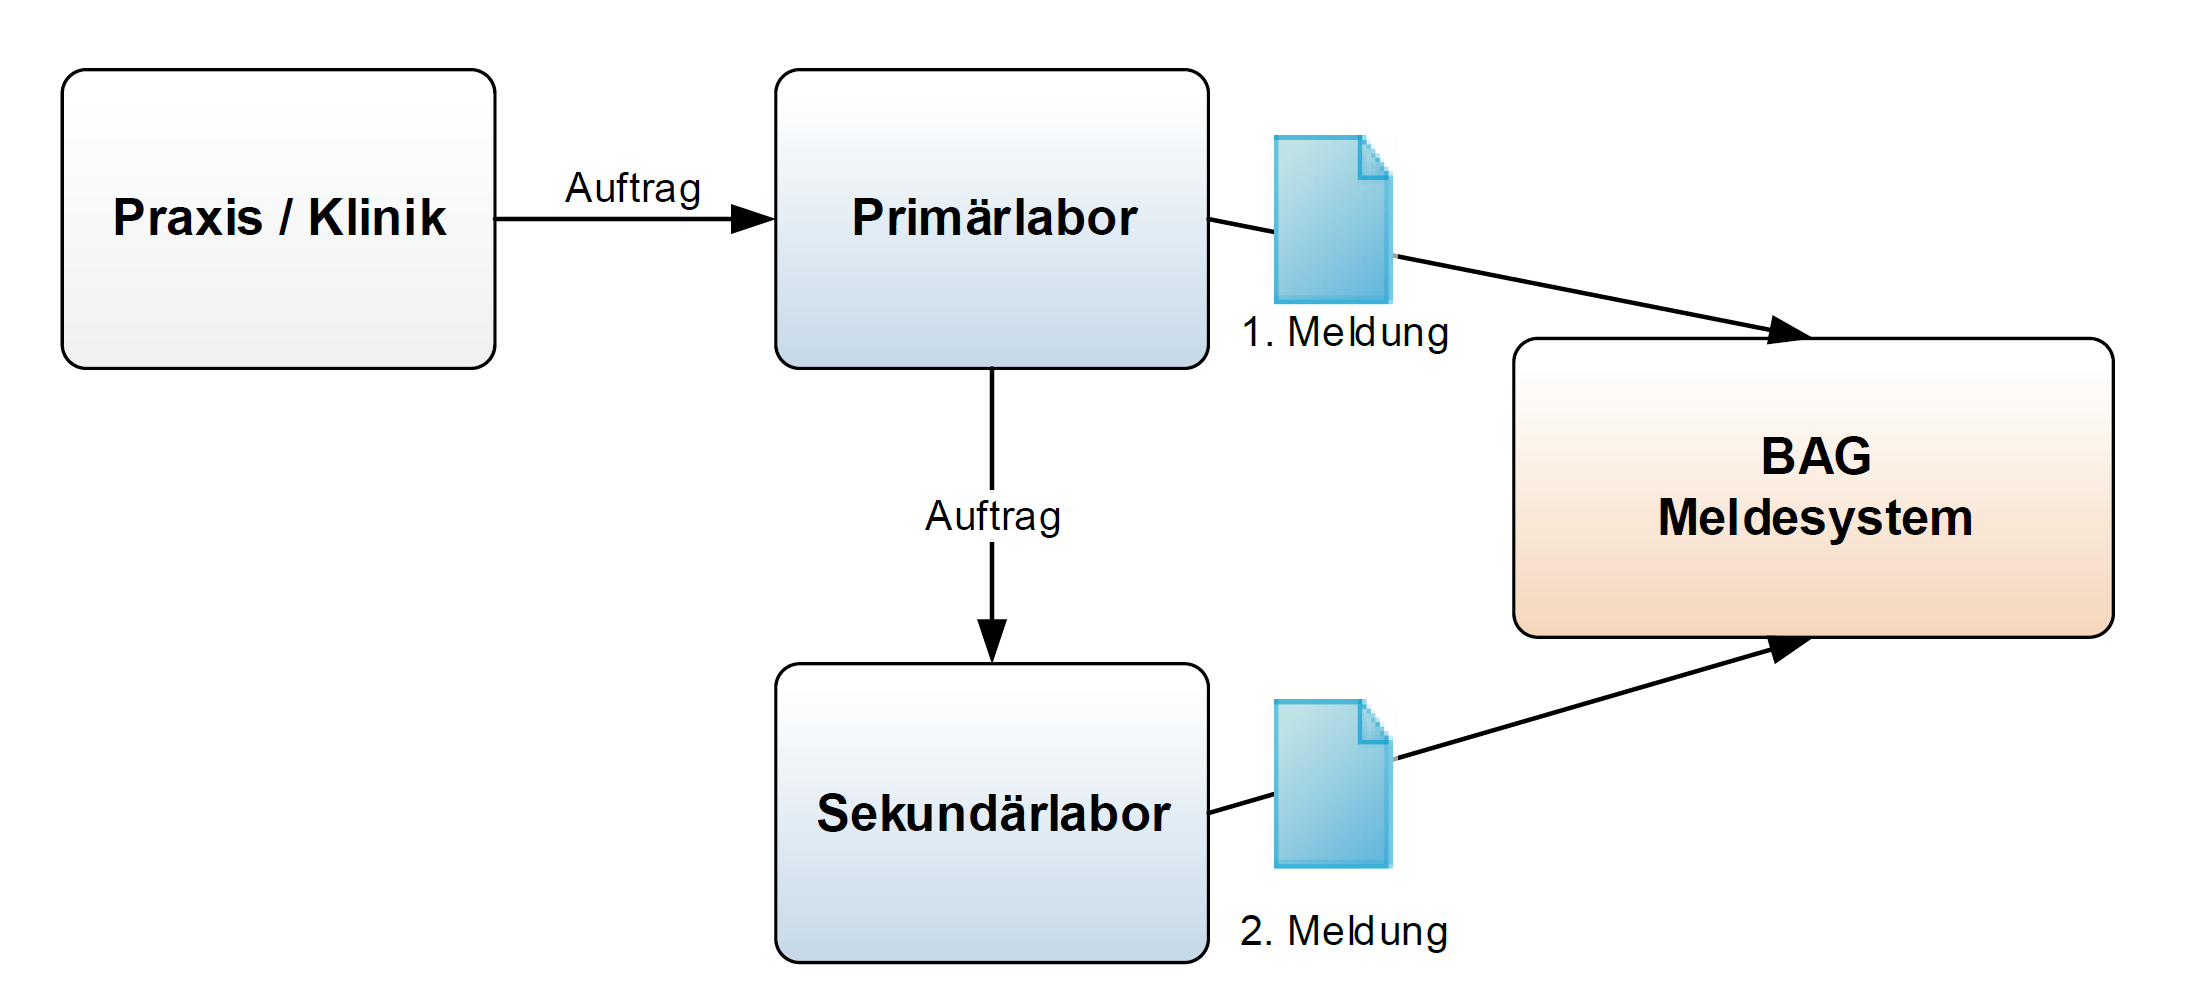
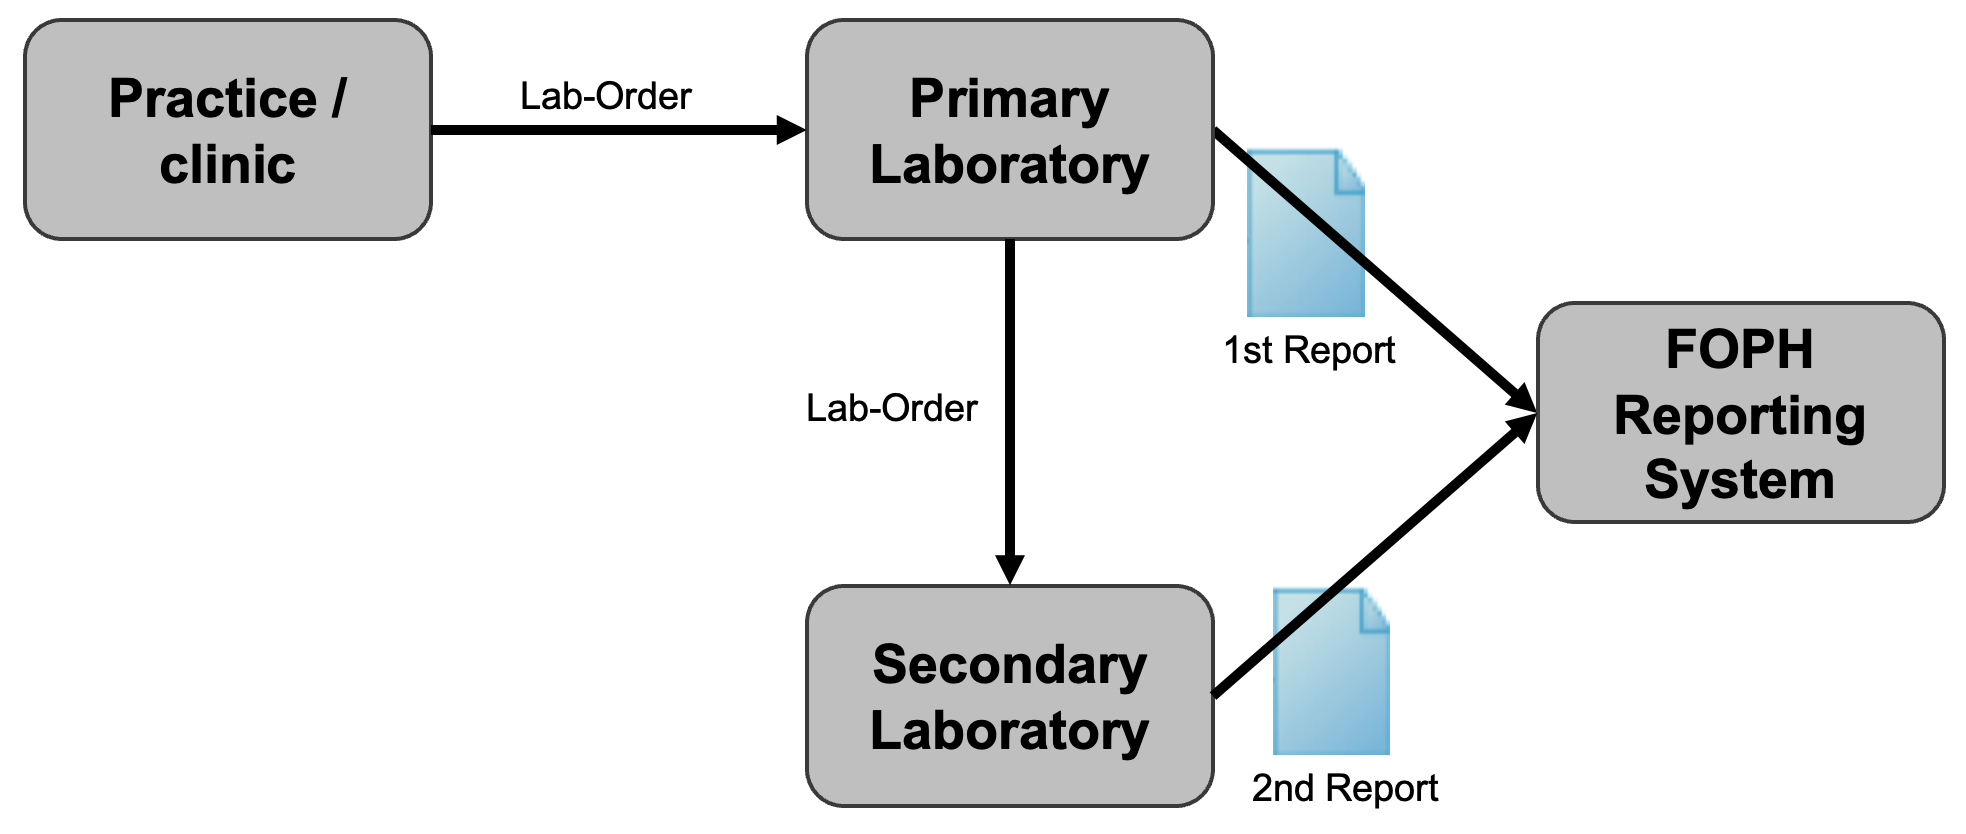
#130 update usecase to english

diff --git a/input/pagecontent/usecase.md b/input/pagecontent/usecase.md
@@ -1,0 +1,41 @@
+- [Scenario 1 - Reporting path for the standard case](#scenario-1---reporting-path-for-the-standard-case)
+- [Scenario 2 - Reporting channel for confirmation tests](#scenario-2---reporting-channel-for-confirmation-tests)
+- [Scenario 3 - Reporting route when passing on a laboratory order](#scenario-3---reporting-route-when-passing-on-a-laboratory-order)
+
+The following use cases serve to illustrate the scenarios that occur in the case of reportable laboratory results that are transmitted to the Federal Office of Public Health. The cases are intended as examples of the representation of laboratory reports. They have not yet been validated in terms of their content and clinical aspects.
+
+### Scenario 1 - Reporting path for the standard case
+
+This reporting route applies to pathogens such as [Neisseria gonorrhoeae](#neisseria-gonorrhoeae), [Chlamydia trachomatis](#chlamydia-trachomatis) and others.
+
+{% include img.html img="scenario1.png" caption="Fig. 1: Reporting path for the standard case" width="60%" %}
+
+#### Neisseria gonorrhoeae
+
+[Mr Daniel Meier](Patient-Pat-001.html), born on 22.08.1960, resident in 3000 Bern, consults [Dr Monika Giacometti at the cantonal hospital](PractitionerRole-1PR-KsAbc.html) on 11.07.2023. Mr Meier complained of itching of the urethra and pain when urinating. As a urinary tract infection is suspected, a [swab](Specimen-1Spec-Specimen.html) is taken and sent to the [laboratory](Organization-1Org-Labor.html) for analysis. By means of isolation in culture, [Neisseria gonorrhoeae detected (LOINC 697-3)](Observation-1Obs-NeisseriaGonorrhoeae.html) is on 14 July 2023 . The laboratory reports the [**notifiable laboratory finding**](Bundle-1Doc-NeisseriaGonorrhoeae.html) to the reporting system of the Federal Office of Public Health.
+
+#### Broker scenario
+
+[Private service providers (so-called brokers)](Organization-1bOrg-Broker.html) who transmit the [**reportable laboratory findings**](Bundle-1bDoc-NeisseriaGonorrhoeae.html) to the reporting system of the Federal Office of Public Health on behalf of the [laboratory](Organization-1bOrg-Labor.html) are shown in the FHIR document as the author of the document.
+
+#### Chlamydia trachomatis
+
+Mrs Hanna Felber, born on 17.10.1985, resident in 4552 Derendingen, consults her family doctor Dr Peter Hauser at his practice in Solothurn on 29.7.2023. Mrs Felber complains of burning when urinating and vaginal discharge. As a urinary tract infection is suspected, a urethral sample is taken using a sterile procedure and sent to the laboratory. Chlamydia trachomatis (LOINC 6349-5) is detected by culture on 4 August 2023. The laboratory reports the positive [**reportable laboratory result**](Bundle-2Doc-ChlamydiaTrachomatis.html) to the Federal Office of Public Health, stating the sample material used (SNOMED CT 119393003).
+
+### Scenario 2 - Reporting channel for confirmation tests
+
+This reporting channel applies to pathogens such as [Salmonella spp.](#salmonella-spp), [Neisseria meningitidis](#neisseria-meningitidis) and others.
+
+{% include img.html img="scenario2.png" caption="Fig. 2: Reporting path for confirmation tests" width="60%" %}
+
+#### Salmonella spp.
+
+Salmonella spp. was found in a blood sample. A report of the findings is sent to the ordering party (practice/clinic); a first report is sent to the FOPH (stating the order number and the ordering doctor/clinic). As it is not the S. enteritidis type, the sample is sent to the National Centre for Enteropathogenic Bacteria and Listeria ("NENT", secondary laboratory) for precise typing. The secondary laboratory requires master data on the client and the patient, information on the origin of the sample (food, faeces, blood, urine, etc.), the desired typing and the previous results. Once typing has been completed, the secondary laboratory sends its findings (the 2nd report) together with the order number of the referring laboratory to the FOPH.
+
+#### Neisseria meningitidis
+
+A cerebrospinal fluid sample was sent by the district hospital on an emergency basis and examined directly under the microscope. Gram-negative diplococci were found. This finding of an infection with Neisseria meningitidis must be reported within one day [JSON](Bundle-17Doc-Neisseria.json.html). Further processing (culture, genome sequence) is carried out by the National Centre for Meningococci (secondary laboratory), which in turn sends a complete report together with the order number of the primary laboratory (50002610 in the example) to the Reporting Systems Section of the FOPH [JSON](Bundle-14Doc-Neisseriameningitidis-confirmationtest.json.html).
+
+### Scenario 3 - Reporting route when passing on a laboratory order
+
+{% include img.html img="scenario3.png" caption="Fig. 3: Reporting route when passing on a laboratory order" width="55%" %}

diff --git a/input/pagecontent/index.md b/input/pagecontent/index.md
@@ -2,7 +2,7 @@
 CH ELM is a project of the Swiss Federal Office of Public Health (FOPH), Communicable Diseases Division, to enable laboratories to send their observations of notifiable communicable infectious diseases to the FOPH electronically.
 A report is created as a specialized Clinical Document based on the HL7® FHIR® standard. This [FHIR document](document.html) is sent to the FOPH by a [FHIR RESTful web API endpoint](api.html). CH ELM derives from the [Swiss implementation guides](https://fhir.ch/) and the [European laboratory project](https://hl7.eu/fhir/laboratory/) (see [graphical overview](#dependency-overview)).
 
-The expected content of the FHIR document, based on the ordinance of the Federal Office of Public Health ([DE](https://www.fedlex.admin.ch/eli/cc/2015/892/de), [FR](https://www.fedlex.admin.ch/eli/cc/2015/892/fr), [IT](https://www.fedlex.admin.ch/eli/cc/2015/892/it)), is defined in the [logical model](StructureDefinition-LaboratoryReport.html). A [mapping](StructureDefinition-LaboratoryReport-mappings.html#mappings-for-ch-elm-laboratory-report-to-fhir-hl7-org-fhir-r4) shows how to access the data from the FHIR document. In addition, further documentation for specific topics can be found on the [guidance](guidance.html) page and the use cases ([DE](usecase-german.html)) describe the different scenarios with respective examples for specific organisms.
+The expected content of the FHIR document, based on the ordinance of the Federal Office of Public Health ([DE](https://www.fedlex.admin.ch/eli/cc/2015/892/de), [FR](https://www.fedlex.admin.ch/eli/cc/2015/892/fr), [IT](https://www.fedlex.admin.ch/eli/cc/2015/892/it)), is defined in the [logical model](StructureDefinition-LaboratoryReport.html). A [mapping](StructureDefinition-LaboratoryReport-mappings.html#mappings-for-ch-elm-laboratory-report-to-fhir-hl7-org-fhir-r4) shows how to access the data from the FHIR document. In addition, further documentation for specific topics can be found on the [guidance](guidance.html) page and the [use cases](usecase.html) describe the different scenarios with respective examples for specific organisms.
 
 <div markdown="1" class="stu-note">
 
@@ -17,7 +17,7 @@ The specification herewith documented is work in progress. No liability can be i
 ### Implementation Support for Laboratories
 
 This guide supports you as a laboratory in the following way:
-- Use cases ([DE](usecase-german.html)) describe the different scenarios with respective example reports for specific organisms, e.g. for Neisseria gonorrhoeae in [xml](Bundle-1Doc-NeisseriaGonorrhoeae.xml.html) or [json](Bundle-1Doc-NeisseriaGonorrhoeae.json.html), you choose if you want to provide the FHIR laboratory report in xml or json format.
+- [Use cases](usecase.html) describe the different scenarios with respective example reports for specific organisms, e.g. for Neisseria gonorrhoeae in [xml](Bundle-1Doc-NeisseriaGonorrhoeae.xml.html) or [json](Bundle-1Doc-NeisseriaGonorrhoeae.json.html), you choose if you want to provide the FHIR laboratory report in xml or json format.
 - What needs to be defined in the laboratory report is defined in [FHIR document](document.html), profiles define the constraints on FHIR resources which need to be included in the report, see the overview [here](profiles.html).
 - The data elements defined by the ordinance of the Federal Office of Public Health (FOPH) for the report are defined in the [logical model](StructureDefinition-LaboratoryReport.html) and are then [mapped](StructureDefinition-LaboratoryReport-mappings.html#mappings-for-ch-elm-laboratory-report-to-fhir-hl7-org-fhir-r4) to the FHIR document structure.  
 - Value sets for the [terminology](terminology.html) are provided as FHIR resources which you can directly import from the [npm package](package.tgz).   

diff --git a/input/pagecontent/changelog.md b/input/pagecontent/changelog.md
@@ -1,7 +1,8 @@
 All significant changes to this FHIR implementation guide will be documented on this page.   
 
-### 1.7.0 unreleased
+### 1.7.0 2024/11/28
 
+* [#130](https://github.com/ahdis/ch-elm/issues/130) update usecase to english
 * [#128](https://github.com/ahdis/ch-elm/issues/128) updated ValueSets and new examples for Hanta fever, HIV, Influenza A new subtype, Poliomyelitis, Rabies, Trichinellosis, West-Nile-Fever and Yellow fever
 * [#125](https://github.com/ahdis/ch-elm/issues/125) HIV not an example for use case 3
 * [#124](https://github.com/ahdis/ch-elm/issues/124) HIV: Observation.valueQuantity for specific Code

diff --git a/input/pagecontent/document.md b/input/pagecontent/document.md
@@ -451,8 +451,8 @@ See the examples in chapter 2.2 to learn how to use the resource profiles for di
             <td>Trichinella spiralis [Presence] in Tissue by Light microscopy</td>
             <td>23499-7</td>
             <td>
-                <a href="Bundle-56Doc-Trichinella spiralis.json.html">JSON</a>, 
-                <a href="Bundle-56Doc-Trichinella spiralis.xml.html">XML</a>
+                <a href="Bundle-56Doc-Trichinella-spiralis.json.html">JSON</a>, 
+                <a href="Bundle-56Doc-Trichinella-spiralis.xml.html">XML</a>
             </td>
         </tr>
         <tr>
